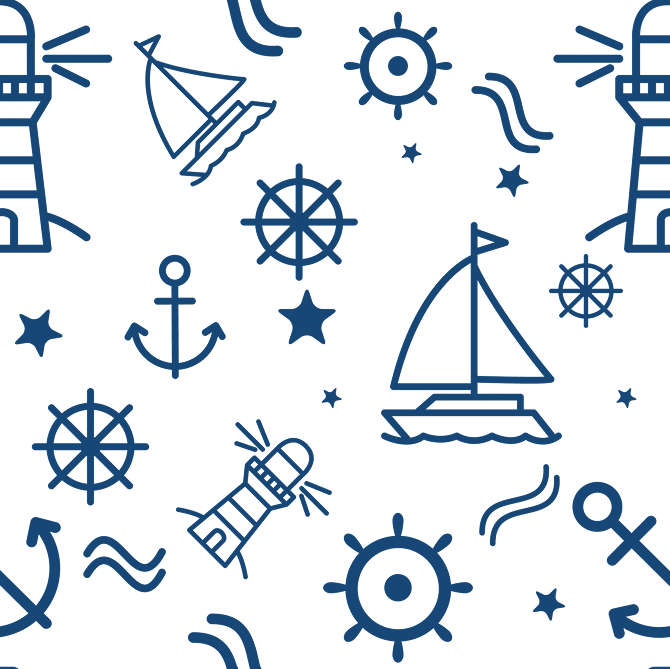
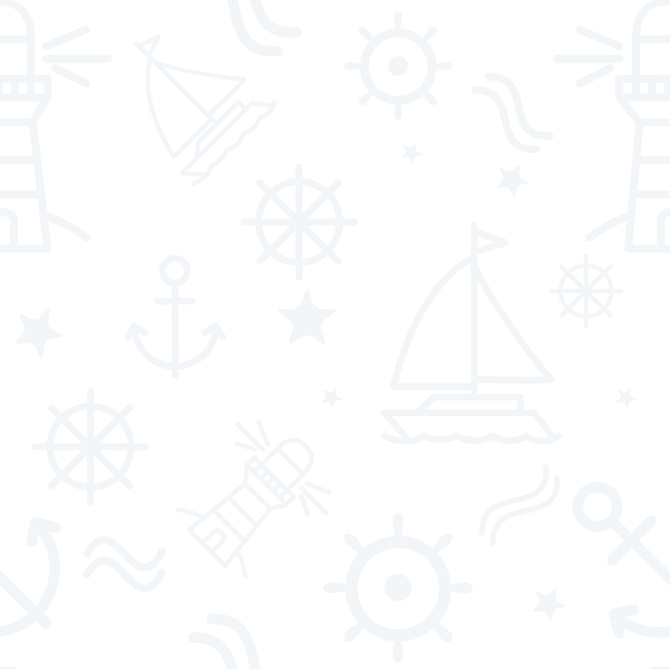
Added "Why Choose Us"
Added "Why Choose Us" Section in Home Page.
With Component

diff --git a/src/app/ui/why choose us/index.js b/src/app/ui/why choose us/index.js
@@ -1,0 +1,71 @@
+import React from 'react'
+import styles from "./style.module.css"
+import Image from 'next/image'
+import plateImage from "../../../assets/images/plate_1.png"
+import plateImageShadow from "../../../assets/images/plate_1_shadow.png"
+import plateImageLeaves from "../../../assets/images/plate_1_leaves.png"
+import { PiChefHatFill } from "react-icons/pi";
+import { MdShoppingCart } from "react-icons/md";
+import { MdFastfood } from "react-icons/md";
+import { MdRoomService } from "react-icons/md";
+
+const WhyChooseUs = () => {
+    return (
+        <div className='container'>
+            <div className="flex flex-col md:flex-row items-center h-full">
+                <div className="w-1/3 h-full">
+                    <div className={`${styles.plate_design}`}>
+                        <Image src={plateImage}></Image>
+                        <Image src={plateImageShadow}></Image>
+                        <Image src={plateImageLeaves}></Image>
+                    </div>
+                </div>
+                <div className="w-2/3 h-full pl-0 lg:pl-20">
+                    <div className="flex flex-col">
+                        <h1 className='text-3xl font-bold color-primary mb-4'>The Captain's Café - Sail Into Flavors.</h1>
+                        <div className="flex flex-row flex-wrap">
+                            <div className="w-1/2 pr-4 pt-4 pb-4">
+                                <div className="flex flex-row justify-start gap-4">
+                                    <PiChefHatFill className={`${styles.icon} text-yellow-900`}/>
+                                    <div className="flex flex-col">
+                                        <h5 className='text-2xl font-semibold color-primary mb-2'>Global Flavors</h5>
+                                        <p className={`${styles.card_text} text-md`}>Our team of master chefs brings years of experience and creativity to every dish, ensuring each bite is a masterpiece of flavor and presentation.</p>
+                                    </div>
+                                </div>
+                            </div>
+                            <div className="w-1/2 pl-4 pt-4 pb-4">
+                                <div className="flex flex-row justify-start gap-4">
+                                    <MdShoppingCart className={`${styles.icon} text-yellow-900`}/>
+                                    <div className="flex flex-col">
+                                        <h5 className='text-2xl font-semibold color-primary mb-2'>Online Order</h5>
+                                        <p className={`${styles.card_text} text-md`}>Enjoy your favorite dishes from the comfort of your home with our easy and reliable online ordering system as well as from Zomato and Swiggy</p>
+                                    </div>
+                                </div>
+                            </div>
+                            <div className="w-1/2 pr-4 pt-4 pb-4">
+                                <div className="flex flex-row justify-start gap-4">
+                                    <MdFastfood className={`${styles.icon} text-yellow-900`}/>
+                                    <div className="flex flex-col">
+                                        <h5 className='text-2xl font-semibold color-primary mb-2'>Quality Food</h5>
+                                        <p className={`${styles.card_text} text-md`}>Fresh ingredients, exceptional recipes, and a commitment to quality come together to create meals that delight your senses.</p>
+                                    </div>
+                                </div>
+                            </div>
+                            <div className="w-1/2 pl-4 pt-4 pb-4">
+                                <div className="flex flex-row justify-start gap-4">
+                                    <MdRoomService className={`${styles.icon} text-yellow-900`}/>
+                                    <div className="flex flex-col">
+                                        <h5 className='text-2xl font-semibold color-primary mb-2'>Best Service</h5>
+                                        <p className={`${styles.card_text} text-md`}>We pride ourselves on providing warm, friendly, and attentive service that makes every visit a delightful experience.</p>
+                                    </div>
+                                </div>
+                            </div>
+                        </div>
+                    </div>
+                </div>
+            </div>
+        </div>
+    )
+}
+
+export default WhyChooseUs

diff --git a/src/app/components/header/index.js b/src/app/components/header/index.js
@@ -9,7 +9,7 @@ import { useState, useRef, useEffect } from "react";
 import { FiMenu } from "react-icons/fi";
 import { FiX } from "react-icons/fi";
 
-export default function MainHeader() {
+export default function MainHeader({ activeTab = null }) {
     const [mobileMenuOpen, setMobileMenuOpen] = useState(false);
     const [activeSubmenu, setActiveSubmenu] = useState(null);
     const [nestedSubmenu, setNestedSubmenu] = useState(null);
@@ -31,7 +31,6 @@ export default function MainHeader() {
         {
             name: "Home",
             href: "#",
-            active: true
         },
         {
             name: "About",
@@ -45,6 +44,7 @@ export default function MainHeader() {
             name: "Blogs",
             href: "#"
         },
+        
         // {
         //     name: "Menu",
         //     href: "#",
@@ -81,6 +81,14 @@ export default function MainHeader() {
         { name: "Contact", href: "#" }
     ];
 
+    const toggleSubmenu = (index) => {
+        setActiveSubmenu(activeSubmenu === index ? null : index);
+    };
+
+    const toggleNestedSubmenu = (index) => {
+        setNestedSubmenu(nestedSubmenu === index ? null : index);
+    };
+
     return (
         <div ref={navRef}>
             {/* Desktop Navigation */}
@@ -109,7 +117,7 @@ export default function MainHeader() {
                         >
                             <Link
                                 href={item.href}
-                                className={`p-2 text-lg color-primary font-medium flex items-center ${item.active ? "border-b-2 border-b-blue-900" : ""
+                                className={`p-2 text-lg color-primary font-medium flex items-center ${activeTab === item.name ? "border-b-2 border-b-blue-900" : ""
                                     }`}
                             >
                                 {item.name}
@@ -174,7 +182,7 @@ export default function MainHeader() {
                 </button>
             </div>
 
-            {/* Mobile Menu (unchanged from previous example) */}
+            {/* Mobile Menu */}
             {mobileMenuOpen && (
                 <div className={`${styles.mobile_menu} lg:hidden bg-white shadow-lg`}>
                     <ul className="flex flex-col gap-0.5 p-2">
@@ -184,7 +192,7 @@ export default function MainHeader() {
                                     <>
                                         <button
                                             onClick={() => toggleSubmenu(index)}
-                                            className={`w-full p-2 text-lg flex justify-between items-center ${item.active ? "bg-primary-light text-white" : "text-primary"
+                                            className={`w-full p-2 text-lg flex justify-between items-center ${activeTab === item.name ? "bg-primary-dark text-white" : "text-primary"
                                                 } rounded-md`}
                                         >
                                             {item.name}
@@ -244,7 +252,7 @@ export default function MainHeader() {
                                 ) : (
                                     <Link
                                         href={item.href}
-                                        className={`block p-3 text-lg ${item.active ? "bg-primary-dark text-white" : "text-primary"
+                                        className={`block p-3 text-lg ${activeTab === item.name ? "bg-primary-dark text-white" : "text-primary"
                                             } rounded-md`}
                                     >
                                         {item.name}

diff --git a/src/app/ui/intro/index.js b/src/app/ui/intro/index.js
@@ -1,13 +1,43 @@
 import React from 'react'
 import styles from "./style.module.css"
-import Counters from '../counters'
+import Image from 'next/image'
+import Image1 from '../../../assets/images/intro_cup.png'
 
 const Intro = () => {
     return (
-        <div className={`${styles.intro_section} container`}>
+        <div className={`${styles.intro_section} container mb-8`}>
             <div className="flex flex-col lg:flex-row">
-                <div className="w-full lg:w-2/3">Hello</div>
-                <div className="w-1/3 hidden lg:block">Hi</div>
+                <div className="w-full lg:w-5/7">
+                    <div className="flex flex-col mb-3">
+                        <h1 className='text-3xl font-bold color-primary mb-3'>The Captain's Café - Sail Into Flavors.</h1>
+                        <p className={`${styles.text_color} text-lg mb-2 pr-0 lg:pr-5`}>Situated in the vibrant city of <strong>Bhubaneswar</strong>, Scottish Café is your destination for mouth-watering vegetarian snacks, exceptional catering services, and delightful bakery creations. We take pride in crafting every dish with care, using only the freshest ingredients.</p>
+                        <p className={`${styles.text_color} text-lg pr-0 lg:pr-5`}>Whether it's a quick snack, a special event, or a sweet indulgence, Scottish Café promises a memorable experience filled with flavor, warmth, and tradition. Join us to savor the best of vegetarian cuisine and baked delights!</p>
+                    </div>
+                    <div className="flex flex-row w-full flex-wrap">
+                        <div className="w-1/2 md:w-1/4 md:mb-2 my-3">
+                            <h2 className='font-bold text-3xl text-yellow-950 text-center md:text-left'>2000+</h2>
+                            <h2 className='font-medium text-md text-yellow-800 text-center md:text-left'>Daily Customers</h2>
+                        </div>
+                        <div className="w-1/2 md:w-1/4 md:mb-2 my-3">
+                            <h2 className='font-bold text-3xl text-yellow-950 text-center md:text-left'>7+</h2>
+                            <h2 className='font-medium text-md text-yellow-800 text-center md:text-left'>Outlets</h2>
+                        </div>
+                        <div className="w-1/2 md:w-1/4 md:mb-2 my-3">
+                            <h2 className='font-bold text-3xl text-yellow-950 text-center md:text-left'>125+</h2>
+                            <h2 className='font-medium text-md text-yellow-800 text-center md:text-left'>Global Dishes</h2>
+                        </div>
+                        <div className="w-1/2 md:w-1/4 md:mb-2 my-3">
+                            <h2 className='font-bold text-3xl text-yellow-950 text-center md:text-left'>100%</h2>
+                            <h2 className='font-medium text-md text-yellow-800 text-center md:text-left'>Satisfaction</h2>
+                        </div>
+                    </div>
+                </div>
+                <div className="w-2/7 hidden lg:block">
+                    <Image src={Image1}
+                        alt="Cup Holding Image"
+                        className='ml-auto'
+                    />
+                </div>
             </div>
         </div>
     )

diff --git a/src/app/page.js b/src/app/page.js
@@ -1,16 +1,16 @@
 "use client"
-
 import Image from "next/image";
 import styles from "./page.module.css";
 import MainHeader from "./components/header";
 import SlidingBackground from "./components/animatedBackground";
 import Counters from "./ui/counters";
 import Intro from "./ui/intro";
+import WhyChooseUs from "./ui/why choose us";
 export default function Home() {
   return (
     <main className="w-full flex flex-col items-center">
       <div className="container fixed z-50">
-        <MainHeader />
+        <MainHeader activeTab="Home" />
       </div>
       <div className={`${styles.hero_section}  w-full flex items-center lg:justify-center`}>
         <div className={`w-full h-full`}>
@@ -18,8 +18,9 @@ export default function Home() {
         </div>
         <div className={styles.hero_bg_bottom}></div>
       </div>
-        <Counters />
-        <Intro/>
+      <Counters />
+      <Intro />
+      <WhyChooseUs/>
     </main>
   );
 }

diff --git a/src/app/globals.css b/src/app/globals.css
@@ -5,7 +5,7 @@
 
 /* Variables */
 :root {
-  --primary-color: #1a60a3;
+  --primary-color: #0E467D;
   --primary-dark-color: #072f55;
   --radius: 0.625rem;
   --background: oklch(1 0 0);
@@ -43,22 +43,36 @@
 
 body {
   position: relative;
-  height: 100vh;
+  height: 100%;
 }
 
 body::before {
   content: "";
-  /* Required for pseudo-elements */
   position: absolute;
+  background-image: url(../assets/images/body_bg.png);
   inset: 0;
   width: 100%;
   height: 100%;
-  background-image: url(../assets/images/body_bg.png);
   background-size: 12%;
   background-repeat: repeat;
   background-position: center;
   z-index: -1;
-  opacity: 0.1;
+}
+
+@media screen and (max-width: 900px) {
+  body::before {
+    background-size: 30%;
+  }
+}
+@media screen and (max-width: 700px) {
+  body::before {
+    background-size: 40%;
+  }
+}
+@media screen and (max-width: 500px) {
+  body::before {
+    background-size: 50%;
+  }
 }
 
 /* Primary */

diff --git a/src/app/ui/why choose us/style.module.css b/src/app/ui/why choose us/style.module.css
@@ -1,0 +1,57 @@
+.plate_design {
+    height: 420px;
+    position: relative;
+    width: 420px;
+    margin: 0 auto;
+}
+
+.plate_design img {
+    position: absolute;
+    inset: 0;
+    width: 100%;
+    height: 100%;
+}
+
+.plate_design img:nth-child(1) {
+    animation: circle2 40s linear infinite;
+    z-index: 10;
+}
+
+.plate_design img:nth-child(2) {
+    z-index: 9;
+    transform: scale(1.5);
+}
+
+.plate_design img:nth-child(3) {
+    animation: circle1 50s linear infinite;
+    z-index: 11;
+}
+
+@keyframes circle1 {
+    0% {
+        transform: rotate(0deg);
+    }
+
+    100% {
+        transform: rotate(360deg);
+    }
+}
+
+@keyframes circle2 {
+    0% {
+        transform: rotate(360deg);
+    }
+
+    100% {
+        transform: rotate(0deg);
+    }
+}
+
+.icon{
+    width: 200px;
+    height: fit-content;
+}
+
+.card_text{
+    color: #6f8daa;
+}

diff --git a/src/app/ui/counters/index.js b/src/app/ui/counters/index.js
@@ -6,7 +6,7 @@ import { MdCall } from "react-icons/md";
 
 const Counters = () => {
     return (
-        <div className="container px-2 sm:px-0">
+        <div className="container mb-3 px-2 sm:px-0 lg:mb-">
             <div className={`${styles.all_cards}  gap-6 relative flex flex-col lg:flex-row w-full`}>
                 <div className={`${styles.card_area} bg-white flex flex-col px-12 py-5 justify-center items-center w-full lg:w-fit`}>
                     <div className={`${styles.card_icon} mb-3`}>

diff --git a/src/app/layout.js b/src/app/layout.js
@@ -29,7 +29,7 @@ export const metadata = {
 
 export default function RootLayout({ children }) {
   return (
-    <html lang="en" className={poppins.className}>
+    <html lang="en" className={inter.className}>
       <body>
         <div className="d-flex">
           <div id="content" className="flex-grow-1">

diff --git a/src/app/ui/intro/style.module.css b/src/app/ui/intro/style.module.css
@@ -1,3 +1,7 @@
 .intro_section{
-    
+
+}
+
+.text_color{
+    color: #374F67;
 }
